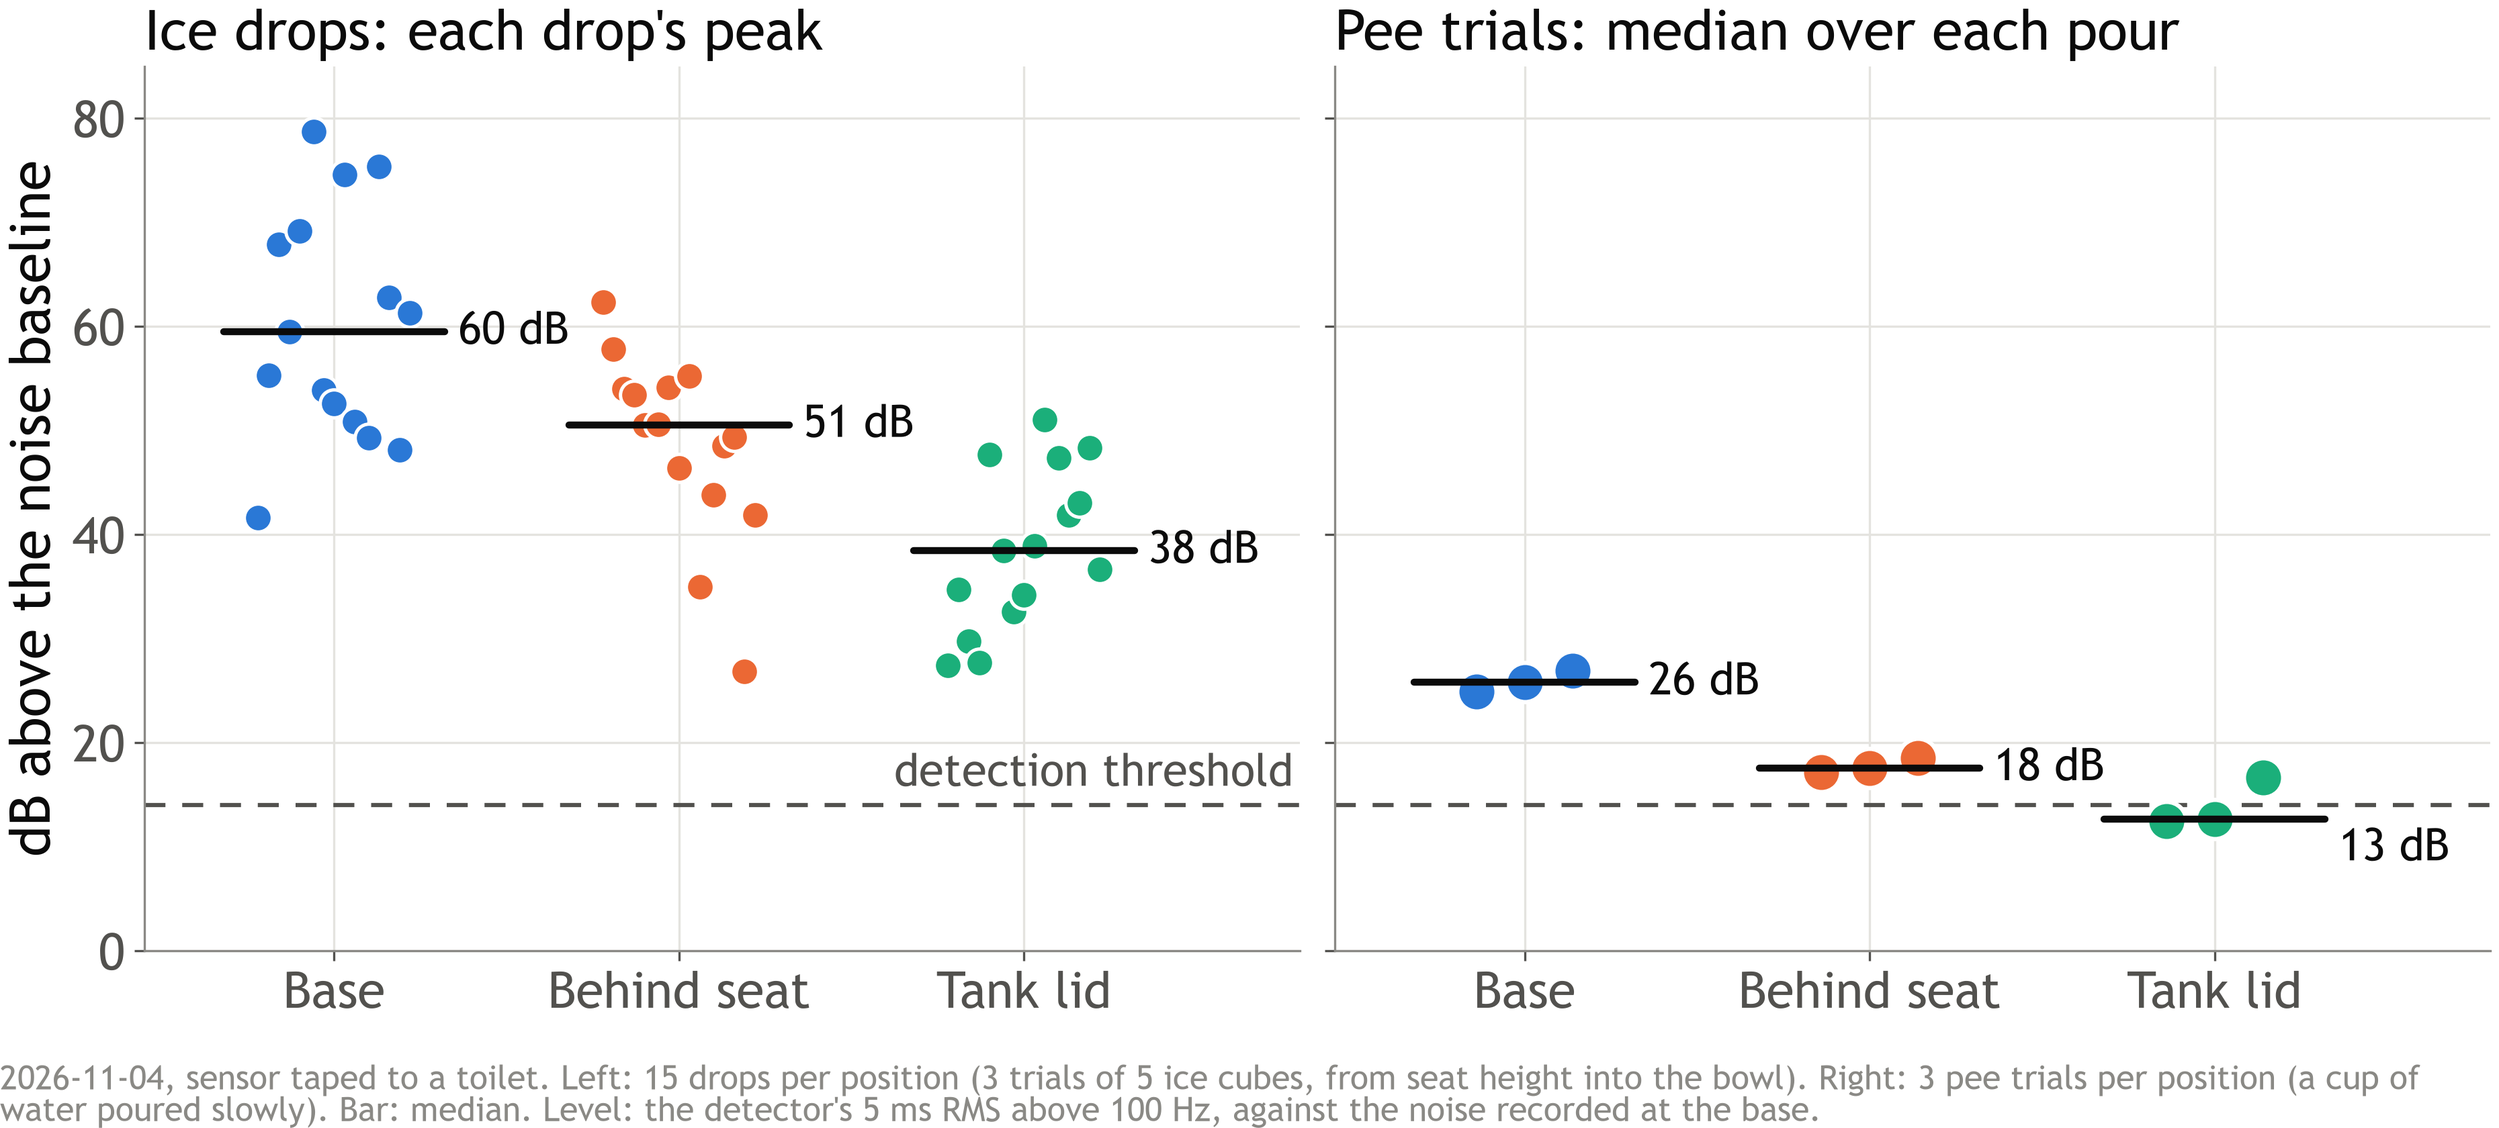
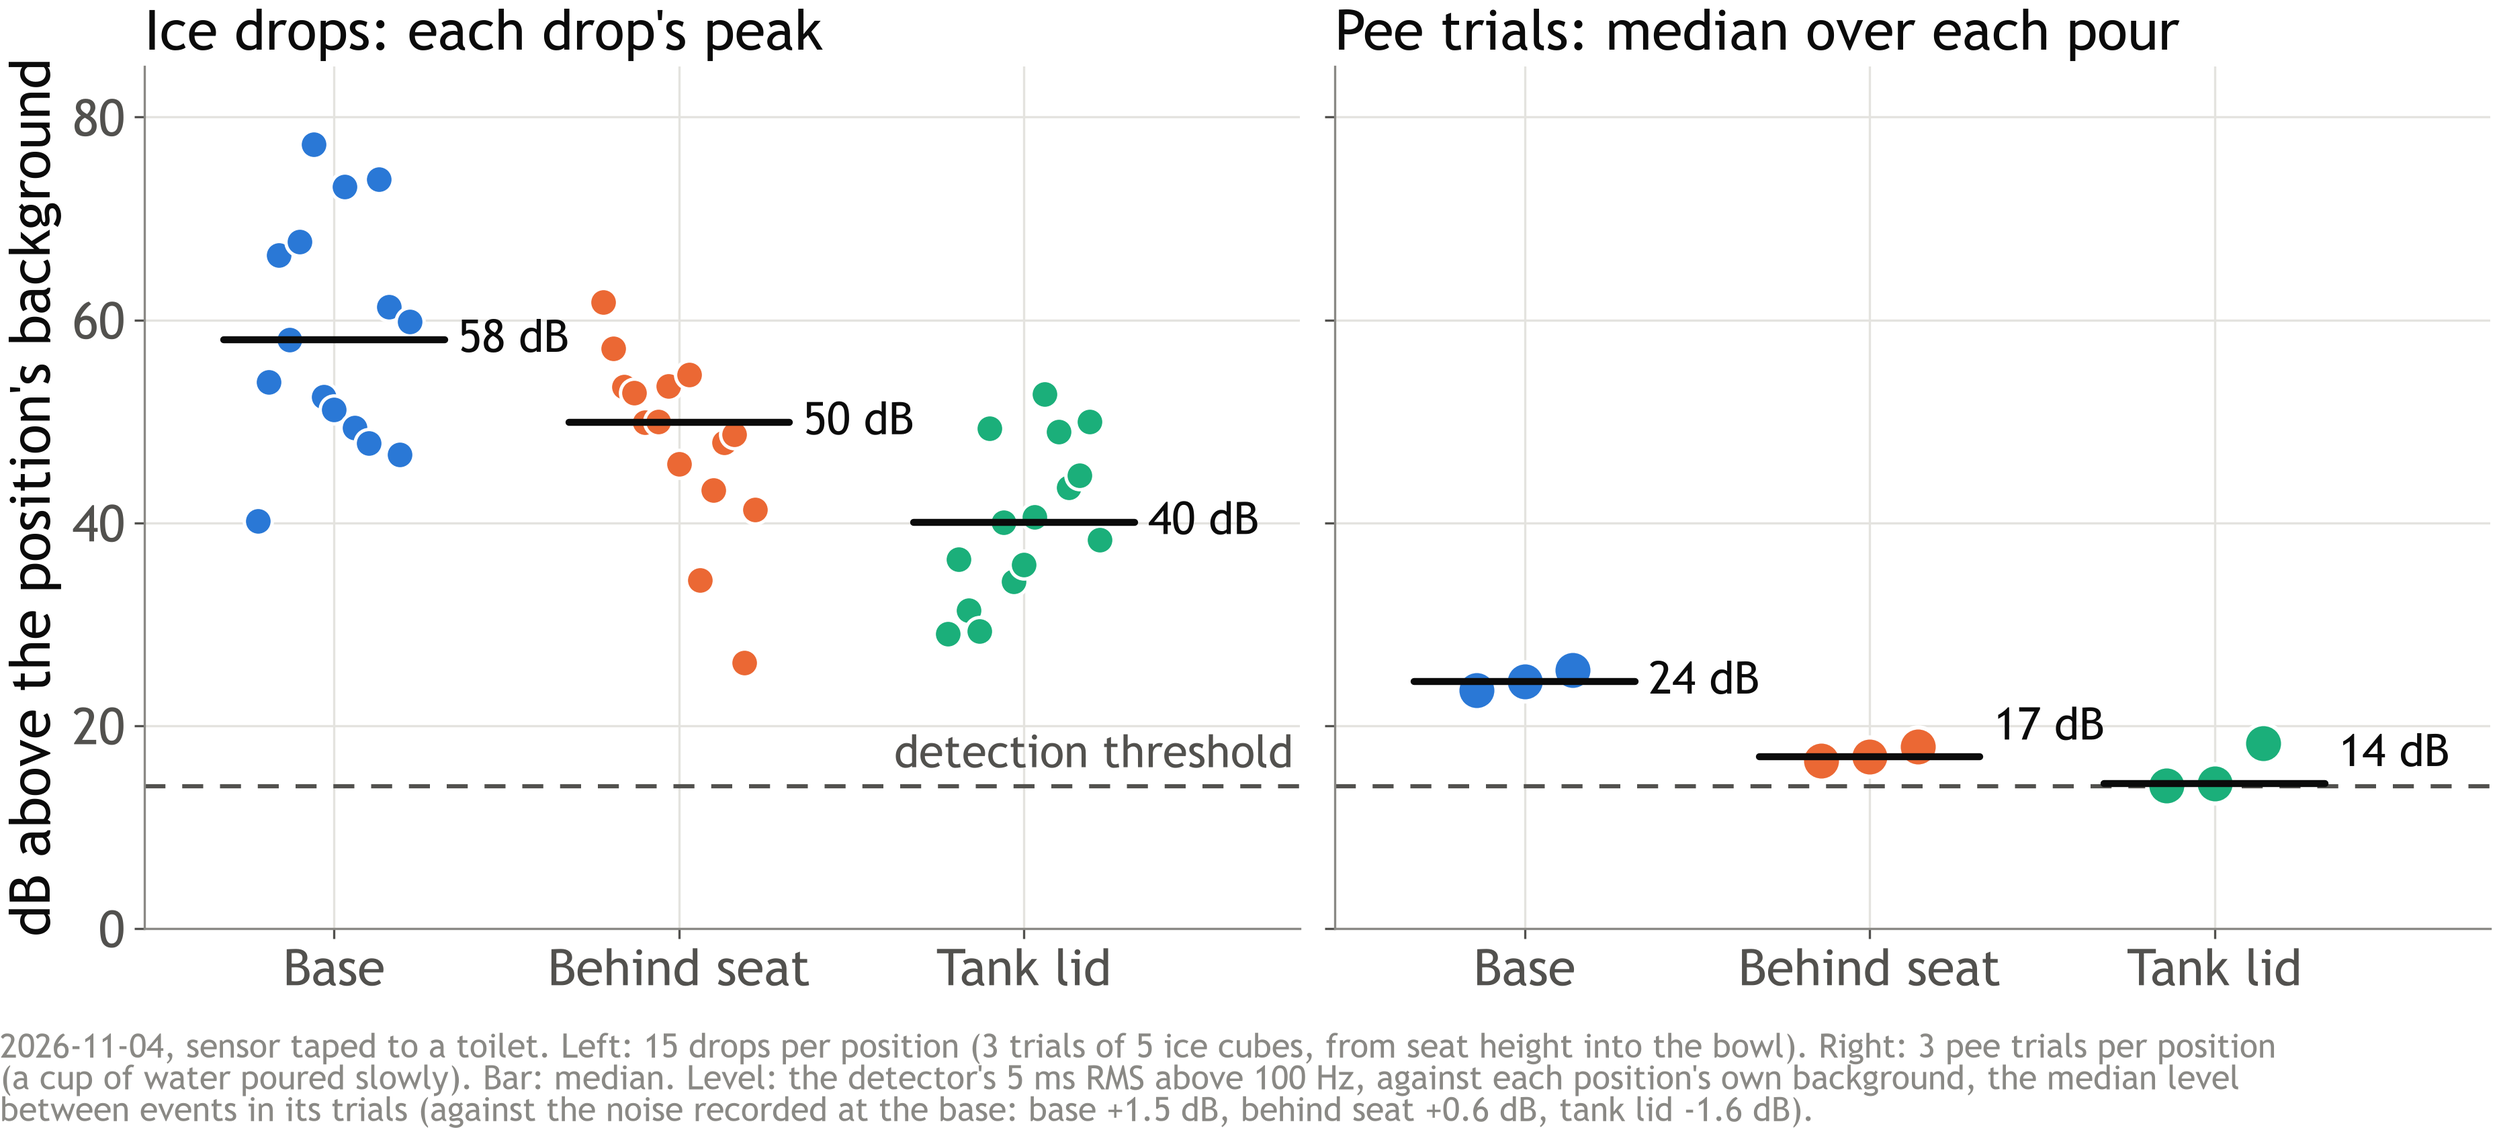
Measure the toilet levels slide against each sensor position's own background, the median detection level between events in its trials (base +1.5, behind the seat +0.6, tank lid -1.6 dB against the base noise recording), and give those levels and the raw counts in the data README

diff --git a/scripts/plot_toilet_slide_figures.py b/scripts/plot_toilet_slide_figures.py
@@ -6,7 +6,7 @@ three 300 dpi PNGs to docs/figures/, sized and styled like plot_floor_slide_figu
 is FONT_PT on a 13.33 x 7.5 in slide when inserted at 100%):
 
 - toilet_levels.png: how loud each ice drop and each pee trial is at each sensor position,
-  in dB above the noise baseline, against the det-v1 threshold.
+  in dB above that position's own background, against the det-v1 threshold.
 - toilet_traces.png: what the detector sees, the second ice trial and the second pee trial
   at each position: the 5 ms RMS level over time, with the tagged drops.
 - toilet_spectra.png: the average spectrum of the drops and of the pours at each position,
@@ -17,7 +17,11 @@ trial); a drop's level is its det-v1 peak (the 5 ms RMS above 100 Hz). A pour is
 detection level, smoothed over POUR_SMOOTH_S, is more than POUR_RISE_DB above its level at
 the start of the recording; its level is the median detection level inside it (less
 POUR_TRIM_S at each end). Every trial is measured against the one noise baseline, recorded
-at the base. The numbers the slides quote are printed.
+at the base. toilet_levels.png then subtracts each position's own background: the median,
+over the position's 6 trials, of the median detection level in the trial's quiet stretches
+(after the first SKIP_S, at least QUIET_GAP_S from any det-v1 event and from the pour), so
+each position is measured against its own noise, as a noise baseline recorded there would.
+The numbers the slides quote are printed.
 """
 
 import csv
@@ -58,6 +62,9 @@ EXAMPLE = 2
 POUR_SMOOTH_S = 0.5
 POUR_RISE_DB = 8.0
 POUR_TRIM_S = 0.3
+QUIET_GAP_S = 0.5
+QUIET_MIN_S = 0.2
+"""A trial's quiet stretches count toward its position's background if they add up to this."""
 PRE_S = 0.010
 """A drop's spectrum is a SEGMENT_S Hann window starting this long before its event time."""
 F_MIN_HZ, F_MAX_HZ = 100.0, 10000.0
@@ -74,11 +81,29 @@ def load(folder: Path, trial: str):
     return x.astype(np.float64), fs
 
 
+def events(folder: Path, trial: str) -> list[dict]:
+    with (analysis_folder(folder) / f"events_{trial}.csv").open(encoding="utf-8") as f:
+        return list(csv.DictReader(f))
+
+
 def drops(folder: Path, trial: str) -> list[tuple[float, float]]:
     """(t_s, peak_db) of the events tagged true_impact."""
-    with (analysis_folder(folder) / f"events_{trial}.csv").open(encoding="utf-8") as f:
-        return [(float(r["t_s"]), float(r["peak_db"])) for r in csv.DictReader(f)
-                if r["annotation"] == "true_impact"]
+    return [(float(r["t_s"]), float(r["peak_db"])) for r in events(folder, trial)
+            if r["annotation"] == "true_impact"]
+
+
+def quiet_level(tr: dict, event_times: list[float], span=None) -> float | None:
+    """Median detection level (dB above the baseline) of a trial's quiet stretches, or None
+    if they add up to less than QUIET_MIN_S."""
+    t = tr["rms_t_s"]
+    quiet = t > impacts.SKIP_S
+    for e in event_times:
+        quiet &= np.abs(t - e) > QUIET_GAP_S
+    if span is not None:
+        quiet &= (t < span[0] - QUIET_GAP_S) | (t > span[1] + QUIET_GAP_S)
+    if quiet.sum() < QUIET_MIN_S * impacts.DETECTION.rate_hz:
+        return None
+    return float(np.median(tr["level_db"][quiet]))
 
 
 def pour_span(level_db: np.ndarray, rate: float) -> tuple[float, float]:
@@ -98,7 +123,7 @@ def collect(folder: Path) -> dict:
     out = {"baseline": baseline}
     for pos, _, _ in POSITIONS:
         d = out[pos] = {"drop_db": [], "drop_psd": [], "pour_db": [], "pour_psd": [],
-                        "pour_s": [], "traces": {}}
+                        "pour_s": [], "quiet_db": [], "traces": {}}
         for n in (1, 2, 3):
             ice, pee = f"toilet_{pos}_ice_{n:02d}", f"toilet_{pos}_pour_{n:02d}"
             x, fs = load(folder, ice)
@@ -110,12 +135,16 @@ def collect(folder: Path) -> dict:
             for when, _ in trial_drops:
                 i = int(round((when - PRE_S) * fs))
                 d["drop_psd"].append(_psd(x[i : i + m], fs))
+            tr = impacts.detection_traces(x, fs, baseline)
+            d["quiet_db"].append(quiet_level(tr, [float(e["t_s"]) for e in events(folder, ice)]))
             if n == EXAMPLE:
-                d["traces"]["ice"] = (impacts.detection_traces(x, fs, baseline), trial_drops)
+                d["traces"]["ice"] = (tr, trial_drops)
 
             x, fs = load(folder, pee)
             tr = impacts.detection_traces(x, fs, baseline)
             a, b = pour_span(tr["level_db"], impacts.DETECTION.rate_hz)
+            d["quiet_db"].append(quiet_level(tr, [float(e["t_s"]) for e in events(folder, pee)],
+                                             (a, b)))
             inside = (tr["rms_t_s"] > a + POUR_TRIM_S) & (tr["rms_t_s"] < b - POUR_TRIM_S)
             d["pour_db"].append(float(np.median(tr["level_db"][inside])))
             d["pour_s"].append(b - a)
@@ -124,6 +153,7 @@ def collect(folder: Path) -> dict:
             if n == EXAMPLE:
                 d["traces"]["pee"] = (tr, (a, b))
         d["freqs"] = np.fft.rfftfreq(m, d=1 / fs)
+        d["own_db"] = float(np.median([q for q in d["quiet_db"] if q is not None]))
     m = int(round(SEGMENT_S * fs))
     noise = nx.astype(np.float64)[int(impacts.SKIP_S * fs) :]
     out["noise_psd"] = np.mean([_psd(noise[i : i + m], fs)
@@ -134,10 +164,14 @@ def collect(folder: Path) -> dict:
 def _median_bar(ax, x: float, value: float, width: float = 0.32) -> None:
     ax.plot([x - width, x + width], [value, value], color=TEXT, linewidth=2.5, zorder=4,
             solid_capstyle="round")
-    # A label next to the threshold line goes just under the bar instead of across the line.
-    near = abs(value - impacts.DETECTION.threshold_db) < 3
-    ax.text(x + width + 0.04, value - 0.8 if near else value, f"{value:.0f} dB",
-            va="top" if near else "center", ha="left", fontsize=FONT_PT - 2, color=TEXT)
+    # A label near the threshold line goes on the far side of the bar from the line.
+    gap = value - impacts.DETECTION.threshold_db
+    if abs(gap) < 4:
+        y, va = (value + 0.8, "bottom") if gap >= 0 else (value - 0.8, "top")
+    else:
+        y, va = value, "center"
+    ax.text(x + width + 0.04, y, f"{value:.0f} dB", va=va, ha="left", fontsize=FONT_PT - 2,
+            color=TEXT)
 
 
 def plot_levels(path: Path, data: dict) -> None:
@@ -147,16 +181,18 @@ def plot_levels(path: Path, data: dict) -> None:
     for ax, kind in zip(axes, ("drop", "pour"), strict=True):
         for i, (pos, color, _) in enumerate(POSITIONS):
             d = data[pos]
+            own = d["own_db"]
             if kind == "drop":
                 for k, trial in enumerate(d["drop_db"]):
                     xs = i + (k - 1) * 0.16 + (np.arange(5) - 2) * 0.03
-                    ax.plot(xs, trial, "o", markersize=10, color=color,
+                    ax.plot(xs, np.array(trial) - own, "o", markersize=10, color=color,
                             markeredgecolor="white", markeredgewidth=1.2, zorder=3)
-                _median_bar(ax, i, float(np.median(np.concatenate(d["drop_db"]))))
+                _median_bar(ax, i, float(np.median(np.concatenate(d["drop_db"]))) - own)
             else:
-                ax.plot(i + np.array([-0.14, 0.0, 0.14]), d["pour_db"], "o", markersize=14,
-                        color=color, markeredgecolor="white", markeredgewidth=1.5, zorder=3)
-                _median_bar(ax, i, float(np.median(d["pour_db"])))
+                ax.plot(i + np.array([-0.14, 0.0, 0.14]), np.array(d["pour_db"]) - own, "o",
+                        markersize=14, color=color, markeredgecolor="white",
+                        markeredgewidth=1.5, zorder=3)
+                _median_bar(ax, i, float(np.median(d["pour_db"])) - own)
         ax.axhline(threshold, color=TEXT_2, linestyle=(0, (5, 4)), linewidth=1.5, zorder=1)
         ax.set_xticks(range(len(POSITIONS)), [label for _, _, label in POSITIONS])
         ax.set_xlim(-0.55, len(POSITIONS) - 0.2)
@@ -164,16 +200,19 @@ def plot_levels(path: Path, data: dict) -> None:
         _style_axes(ax)
     axes[0].set_title("Ice drops: each drop's peak", loc="left")
     axes[1].set_title("Pee trials: median over each pour", loc="left")
-    axes[0].set_ylabel("dB above the noise baseline")
+    axes[0].set_ylabel("dB above the position's background")
     axes[0].set_ylim(0, 85)
     axes[0].text(len(POSITIONS) - 0.22, threshold + 1.0, "detection threshold", ha="right",
                  va="bottom", color=TEXT_2, fontsize=FONT_PT - 2)
+    own = ", ".join(f"{label.lower()} {data[pos]['own_db']:+.1f} dB"
+                    for pos, _, label in POSITIONS)
     fig.text(0.0, 0.0, "2026-11-04, sensor taped to a toilet. Left: 15 drops per position (3 "
              "trials of 5 ice cubes, from seat height into the bowl). Right: 3 pee trials per "
-             "position (a cup of\nwater poured slowly). Bar: median. Level: the detector's 5 ms "
-             "RMS above 100 Hz, against the noise recorded at the base.",
-             fontsize=SMALL_PT, color=MUTED, ha="left", va="bottom")
-    fig.get_layout_engine().set(rect=(0, 0.09, 1, 0.91))
+             "position\n(a cup of water poured slowly). Bar: median. Level: the detector's 5 ms "
+             "RMS above 100 Hz, against each position's own background, the median level\n"
+             "between events in its trials (against the noise recorded at the base: "
+             f"{own}).", fontsize=SMALL_PT, color=MUTED, ha="left", va="bottom")
+    fig.get_layout_engine().set(rect=(0, 0.11, 1, 0.89))
     fig.savefig(path, dpi=300, metadata={"Software": None})
 
 
@@ -247,11 +286,15 @@ def plot_spectra(path: Path, data: dict) -> None:
 
 
 def report(data: dict) -> None:
+    print("dB above the base noise recording (and above the position's own background)")
     for pos, _, label in POSITIONS:
         d = data[pos]
-        flat = np.concatenate(d["drop_db"])
-        print(f"{label:12} drops: median {np.median(flat):5.1f} dB, range {flat.min():5.1f} to "
-              f"{flat.max():5.1f}; pours: " + ", ".join(f"{v:4.1f}" for v in d["pour_db"])
+        flat, own = np.concatenate(d["drop_db"]), d["own_db"]
+        print(f"{label:12} own background {own:+.1f} dB (per trial "
+              + ", ".join("-" if q is None else f"{q:+.1f}" for q in d["quiet_db"]) + ")")
+        print(f"{'':12} drops: median {np.median(flat):5.1f} ({np.median(flat) - own:5.1f}) dB, "
+              f"range {flat.min():5.1f} to {flat.max():5.1f}; pours: "
+              + ", ".join(f"{v:4.1f} ({v - own:4.1f})" for v in d["pour_db"])
               + " dB over " + ", ".join(f"{s:3.1f}" for s in d["pour_s"]) + " s")
 
 

diff --git a/data/controlled/README.md b/data/controlled/README.md
@@ -89,8 +89,8 @@ Every ice trial has its 5 drops, 2.0 to 3.7 s apart, and det-v1 finds all 45 (th
 
 How a cube enters the water (flat side down, upright edge first, or rounded side down) changes how hard it hits, and which way each cube landed was not recorded: within one trial the 5 drops differ by 12 to 28 dB. Over the 15 drops at each position, in dB above the base noise baseline, the base has a median of 59.5 dB (middle half 51.7 to 68.5), behind the seat 50.5 dB (45.1 to 54.1) and the tank lid 38.5 dB (33.4 to 45.2), so compare positions on these medians rather than on single drops. The median level over each pour is 25.0 to 26.9 dB at the base, 17.2 to 18.6 dB behind the seat and 12.5 to 16.7 dB on the tank lid. The loudest drop at the base (`toilet_base_ice_02`, 1.15 s) reaches 32,251 counts, 0.14 dB below full scale; no sample is clipped.
 
-Only one noise baseline was recorded, at the base before the base trials, so the behind-seat and tank-lid trials are measured against it. The quietest 2 s of each tank lid trial is 1.0 to 2.2 dB below it, so the tank lid levels read about 1.5 dB low. During the base trials a hiss above 2 kHz builds up, from a source nobody noticed: the median 2-8 kHz level (over each ice trial, and outside the pour in each pee trial) goes from 0 dB in the first ice trial to 2.7, 5.9, 6.0 and 9.1 dB, and 14.8 dB in the last pee trial. The bands below 2 kHz stay at the noise level, and the behind-seat and tank-lid trials do not have it (-3.1 to +1.0 dB). It makes most of the 24 `other_noise` events in `toilet_base_ice_03` and hides no drop. The last base pour is also shorter than the other two (4.2 s above its own background, against 8.7 and 8.4 s).
+Only one noise baseline was recorded, at the base before the base trials, so the behind-seat and tank-lid trials are measured against it. The quietest 2 s of each tank lid trial is 1.0 to 2.2 dB below it, so the tank lid levels read about 1.5 dB low. Measured instead against each position's own background (the median detection level between events in its trials, more than 0.5 s from any event and from the pour: base +1.5 dB, behind the seat +0.6 dB, tank lid -1.6 dB against the base noise recording), the median drop is 58.0, 49.9 and 40.1 dB and the median pour 24.3, 16.9 and 14.3 dB, which is what `toilet_levels.png` shows. The order of the positions is the same either way: it is in the signal itself, a median drop of 2,206, 787 and 195 counts (5 ms RMS above 100 Hz). During the base trials a hiss above 2 kHz builds up, from a source nobody noticed: the median 2-8 kHz level (over each ice trial, and outside the pour in each pee trial) goes from 0 dB in the first ice trial to 2.7, 5.9, 6.0 and 9.1 dB, and 14.8 dB in the last pee trial. The bands below 2 kHz stay at the noise level, and the behind-seat and tank-lid trials do not have it (-3.1 to +1.0 dB). It makes most of the 24 `other_noise` events in `toilet_base_ice_03` and hides no drop. The last base pour is also shorter than the other two (4.2 s above its own background, against 8.7 and 8.4 s).
 
 Edits after recording, each noted in the trial's `edit_note` with the original ID, the excitation, distance and impacts made as recorded, and the original notes. The trials were saved as `toilet_base_01`, `toilet_base_0m_<nn>`, `toilet_behind_seat_<nn>`, `toilet_behind_seat_1m_<nn>` and `toilet_on_top_1m_<nn>`, and the baseline as `toilet_noise_01`; every ice and pee trial had 5 impacts made, excitation `ball_drop` (base) or `drop_stand` (the others) and a distance of 0 or 1 m; only the notes said which were ice and which were pee trials. Every trial was renamed to the scheme above; its excitation, impacts made, distance, floor, impact point and notes were set from the operator's description and the cube shape added; and the second pee trial behind the seat and on the tank lid, both noted as trial 3, was numbered 2. The base had a fourth pee trial: the first one (saved as `toilet_base_0m_01` at 18:44:46, 13.4 s), about 10 dB quieter than the others and redone 2.5 minutes later, is removed, and the other three are numbered 1 to 3. Two trials are cropped, each with the span kept, the reason and the original checks under `cropped`: `toilet_base_noise_01` to its first 21.5 s of 25.0 s (two impacts at 21.95 and 22.56 s, after a smaller one at 21.79 s), and `toilet_behindseat_pour_03` to 1.00 to 7.65 s of 8.96 s (knocks at 0.41, 7.84 and 8.91 s, most likely the cup on the seat), with its `start_time` moved to its first kept sample. The uncropped originals are not published: they stay in `data/raw/2026-11-04/uncropped/` on the recording laptop, and the removed pee trial in that laptop's Recycle Bin. Each `.mat` file's `meta` is rewritten to match its `.json` (its samples are unchanged).
 
-Figures: one plot per trial and `summary_found_vs_made.png` in `figures/2026-11-04/` (`python scripts/plot_trials.py data/controlled/raw/2026-11-04`). Slide figures in `docs/figures/`: `toilet_levels.png` (every drop's and pour's level by position), `toilet_traces.png` (the second ice and pee trial at each position, as the detector sees them) and `toilet_spectra.png` (average spectra of the drops and the pours by position) from `python scripts/plot_toilet_slide_figures.py`, and `toilet_wavelet.png` (Morlet scalograms of the median drop and of a pour at each position, one shared dB scale) from `wavelet_toilet()` in `matlab/wavelet/`. In the scalograms the base's background before the pour is a steady band at 4 to 5 kHz, the sensor's datasheet resonance: the hiss above is there.
+Figures: one plot per trial and `summary_found_vs_made.png` in `figures/2026-11-04/` (`python scripts/plot_trials.py data/controlled/raw/2026-11-04`). Slide figures in `docs/figures/`: `toilet_levels.png` (every drop's and pour's level by position, against the position's own background), `toilet_traces.png` (the second ice and pee trial at each position, as the detector sees them) and `toilet_spectra.png` (average spectra of the drops and the pours by position) from `python scripts/plot_toilet_slide_figures.py`, and `toilet_wavelet.png` (Morlet scalograms of the median drop and of a pour at each position, one shared dB scale) from `wavelet_toilet()` in `matlab/wavelet/`. In the scalograms the base's background before the pour is a steady band at 4 to 5 kHz, the sensor's datasheet resonance: the hiss above is there.
